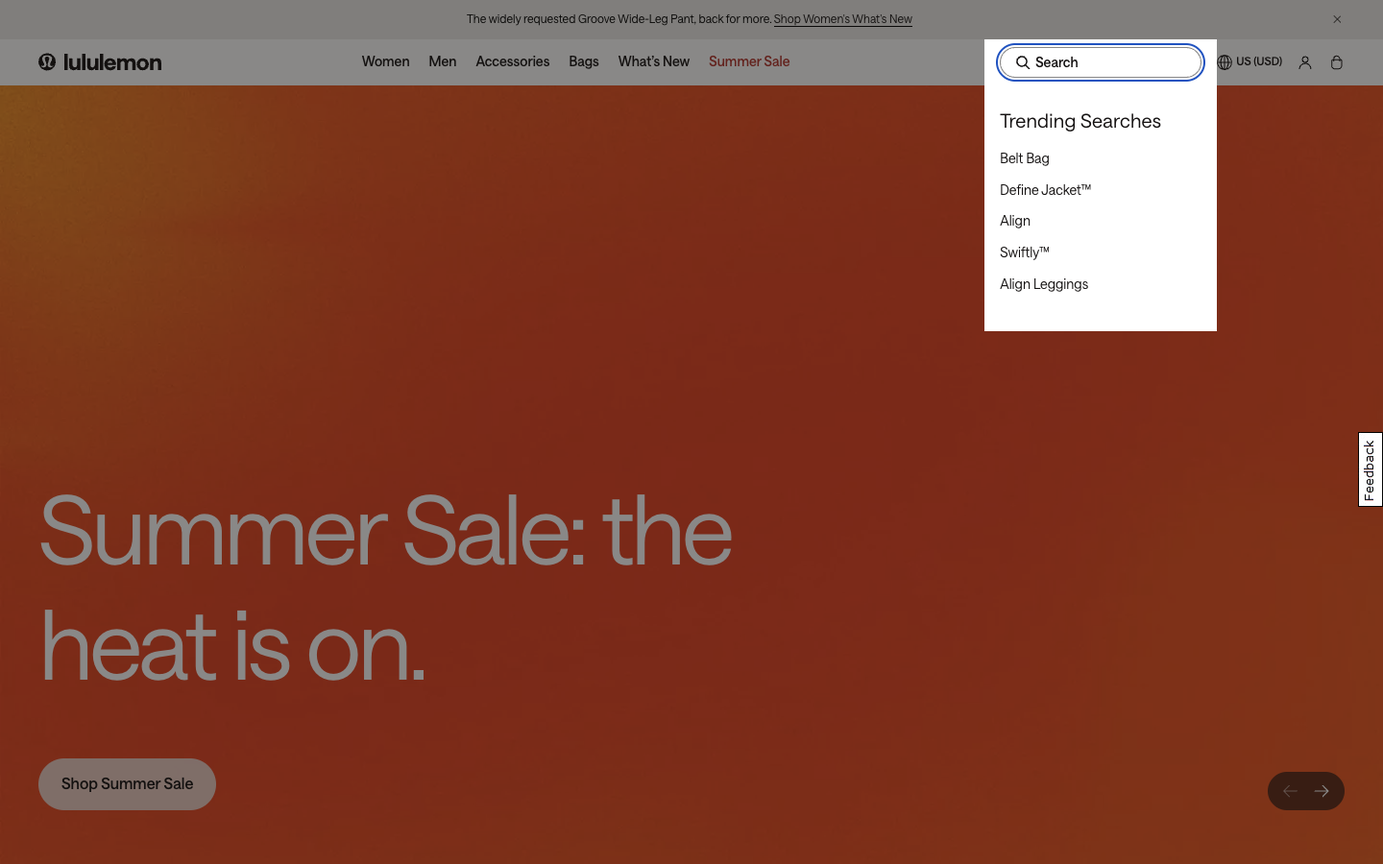
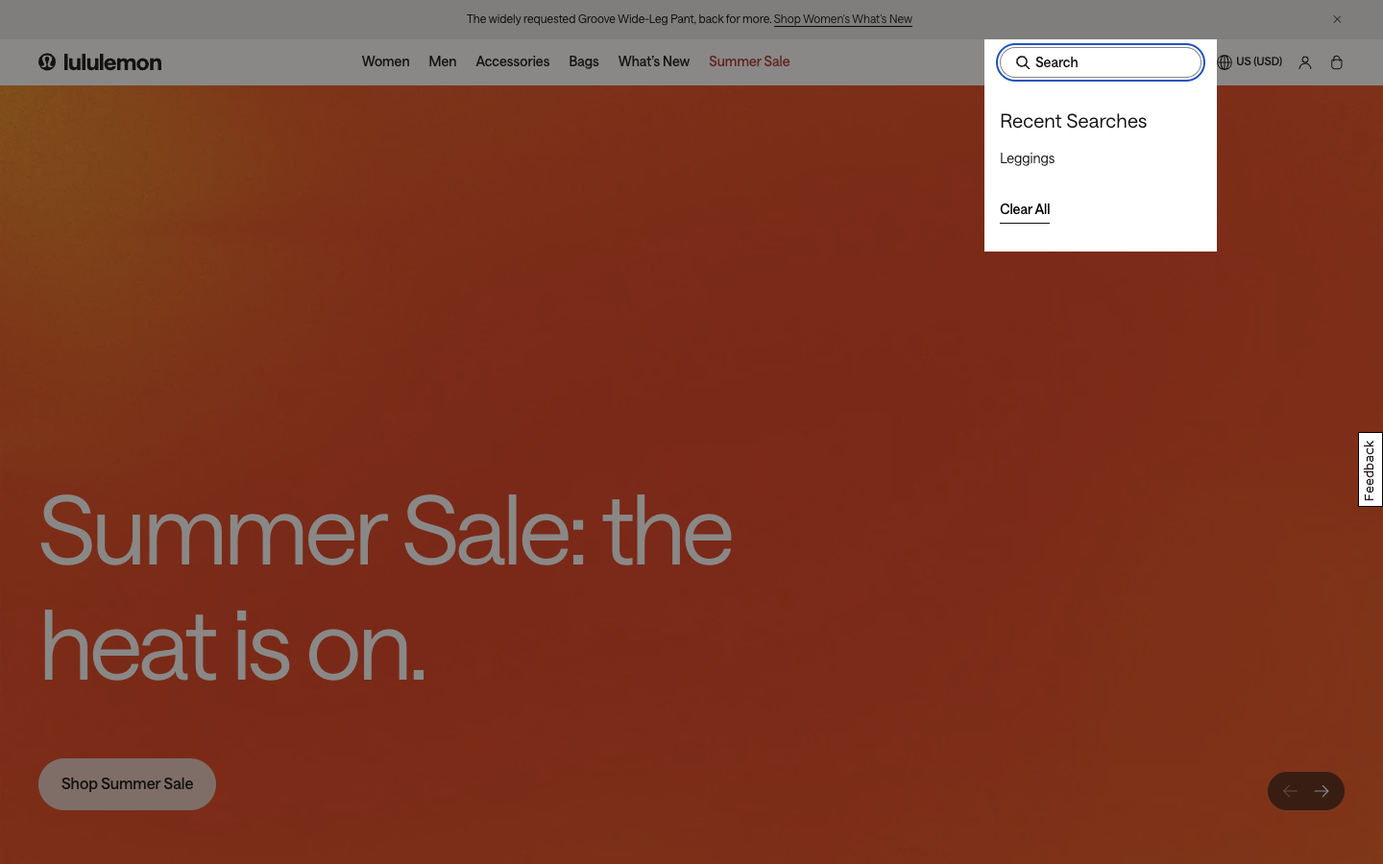
fix(lululemon): correct SEARCH-AUDIT screenshots + findings (screenshot-timing bug)
The original search screenshots were captured before lululemon's
search-as-you-type suggestions finished loading, so every query looked
empty. The analyst then wrote findings concluding lululemon has "no
trending, no scoped suggestions, no popularity signals." That is false
and a prospect would instantly disprove it.

Corrected against re-captured ground truth (waited for load):
- Replaced 6 screenshots (02-empty-state, 11-federated,
  16-dynamic-categories updated; 01/03/15 already correct) and added
  intent-empty.png for the natural-language failure.
- F1 (intent): now backed by intent-empty.png ("yoga pants under 100"
  returns an empty Top Suggestions overlay). Kept sharp.
- F2/F4/F5: reframed from false "empty/absent" claims to the real gaps
  (suggestions are static not demand-ranked/personalized; franchise
  terms autocomplete richly but do not route to curated views;
  behavioral signal not fed into ranking). Autocomplete, trending and
  recent searches DO work.
- F3 (federated): kept sharp; "hemming" returns hem-named products but
  not the free-hemming service/help content.
- Propagated corrections to gap_pairs, competitive synthesis,
  positioning matrix, pain points, 3 outreach emails, the Loom script,
  and demos so no false claim ships anywhere.
- Official score.overall (3.1) and score.breakdown left unchanged pending
  Arijit's sign-off (now indefensible given the corrections; flagged).
[…]

Changed region(s): [[0.6875, 0.1244, 0.9062, 0.4044]]

diff --git a/lululemon/index.html b/lululemon/index.html
@@ -5560,16 +5560,16 @@ a:hover {
   "findings": [
     {
       "id": "F1",
-      "title": "Semantic / NLP FAIL — keyword `Ntt` engine cannot parse conversational intent",
+      "title": "Semantic / NLP FAIL: keyword `Ntt` engine cannot parse conversational intent",
       "severity": "HIGH",
       "category": "semantic_nlp_search",
-      "tested_query": "black yoga pants for hot yoga",
-      "expected_behavior": "Interpret 'hot yoga' as an activity signal (breathable / Nulu fabric), 'black' as a color facet, and 'yoga pants' as category — return a semantically-resolved set of relevant leggings.",
-      "actual_behavior": "The accessible page state echoed the raw query in the search field and rendered generic homepage/nav chrome ('Groove Wide-Leg Pant… What's New') rather than a semantically-resolved result set — consistent with a keyword `Ntt` match, not intent understanding. An Endeca-lineage keyword engine will not parse 'for hot yoga' (activity→fabric), 'under 100' (price), or 'that packs down' (feature).",
-      "impact_stat": "Search users who use natural language convert far higher — apparel searchers convert at 13% vs 6% for non-searchers.",
+      "tested_query": "yoga pants under 100",
+      "expected_behavior": "Interpret 'yoga pants' as a category, 'under 100' as a price constraint, and activity phrasing like 'for hot yoga' as a breathable / Nulu fabric signal, then return a semantically-resolved set of relevant leggings.",
+      "actual_behavior": "Typing a natural-language, price-scoped query ('yoga pants under 100') returned a completely empty 'Top Suggestions' overlay: the heading rendered with zero results beneath it. The keyword `Ntt` engine tokenizes words and cannot read 'under 100' as a price constraint or 'for hot yoga' as an activity/fabric signal, so intent queries fall through to nothing. Note the contrast with plain keyword terms, which do autocomplete richly (see F2/F4).",
+      "impact_stat": "Search users who use natural language convert far higher: apparel searchers convert at 13% vs 6% for non-searchers.",
       "impact_stat_source": "https://baymard.com/research/ecommerce-search",
-      "screenshot_file": "screenshots/03-sayt-leggings.png",
-      "prospect_description": "lululemon's highest-intent shoppers — those typing what they actually want ('lightweight running jacket that packs down', 'men's joggers under 100') — get keyword-matched chrome, not answers. On a DTC-only model there is no wholesale fallback to catch that lost sale.",
+      "screenshot_file": "screenshots/intent-empty.png",
+      "prospect_description": "lululemon's highest-intent shoppers, the ones typing what they actually want ('lightweight running jacket that packs down', 'men's joggers under 100'), get an empty suggestions overlay, not answers. On a DTC-only model there is no wholesale fallback to catch that lost sale.",
       "algolia_solution": "Algolia NeuralSearch understands activity, price and feature intent natively — combining vector search with structured attribute filtering in a single query, no manual facet-setting required. This is the strongest wedge given the new CAITO's AI mandate.",
       "algolia_case_study_url": "https://www.algolia.com/customers/gymshark/",
       "algolia_case_study_company": "Gymshark",
@@ -5577,80 +5577,80 @@ a:hover {
     },
     {
       "id": "F2",
-      "title": "Empty SAYT & unpopulated 'Trending Searches' — the silent front door",
+      "title": "Query suggestions are a static curated list, not demand-ranked or personalized",
       "severity": "HIGH",
       "category": "query_suggestions_empty_state",
-      "tested_query": "leggings",
-      "expected_behavior": "Typing 'leggings' should surface query suggestions, product previews, category shortcuts and popular/recent searches in the autocomplete overlay.",
-      "actual_behavior": "The SAYT overlay returned no query-specific suggestions across 'leggings', 'align', and 'run' — it continued to show only a static 'Trending Searches' label with no populated terms, no product previews, no recent-search history. Confirmed on-disk (screenshots 02, 03, 15, 16).",
-      "impact_stat": "43% of retail shoppers go straight to the search bar, and search users convert 5–6x higher — a blank front door wastes the highest-intent surface.",
+      "tested_query": "(empty search box)",
+      "expected_behavior": "The empty-state overlay should surface popular searches ranked from real search demand, plus recent searches and product previews, refreshed automatically by behavioral data and personalized to the shopper.",
+      "actual_behavior": "lululemon does populate the empty-state overlay: a 'Trending Searches' list renders (Belt Bag, Define Jacket, Align, Swiftly, Align Leggings) and returning guests also see a 'Recent Searches' block (screenshots 15 and 02). The gap is that this is a fixed, hand-curated list, not popularity ranked from real search demand, and it does not personalize to the individual shopper beyond simple recent history. So the highest-intent surface works, but it cannot flex to real-time demand, season or the specific guest.",
+      "impact_stat": "43% of retail shoppers go straight to the search bar; suggestions ranked from real demand outperform a fixed curated list on the highest-intent surface.",
       "impact_stat_source": "https://baymard.com/research/ecommerce-search",
       "screenshot_file": "screenshots/15-popular-searches.png",
-      "prospect_description": "Every visitor who taps lululemon's search box gets an empty 'Trending Searches' header — a broken first impression on the highest-intent surface, and with 80.26% mobile traffic that empty overlay hits the majority of guests.",
-      "algolia_solution": "Algolia Query Suggestions + Autocomplete deliver data-driven popular searches, recent history, and product previews in the SAYT overlay out of the box — turning the empty front door into a merchandising surface.",
+      "prospect_description": "Every guest who taps lululemon's search box sees the same five fixed trending terms. With 80.26% mobile traffic on the highest-intent surface, that static list cannot adapt to real-time demand, seasonality or the individual shopper.",
+      "algolia_solution": "Algolia Query Suggestions ranks the overlay from live search analytics and refreshes automatically, and Personalization tailors it per shopper: the fixed curated list becomes a live, demand-ranked merchandising surface.",
       "algolia_case_study_url": "https://www.algolia.com/customers/gymshark-recommend",
       "algolia_case_study_company": "Gymshark",
       "algolia_case_study_result": "New user order rate increased by 150% during Black Friday with Algolia Recommend"
     },
     {
       "id": "F3",
-      "title": "No federated search — content, policy and service siloed from search",
+      "title": "No federated search: help, service and policy content siloed from search",
       "severity": "HIGH",
       "category": "content_commerce_ux",
-      "tested_query": "align",
-      "expected_behavior": "SAYT should federate products, content, collections, and stores (e.g. surface 'hemming' service and 'return policy' content alongside product results).",
-      "actual_behavior": "SAYT is products-only in intent but returns nothing federated — no product previews, no category suggestions, no content/store/brand entries; the overlay shows only the static 'Trending Searches' label. Content lives in a separate Contentful layer (`cdn-contentful.lululemon.com`, content_type=cdp), not indexed into search.",
-      "impact_stat": "68% of shoppers would return to a site with good search — federated discovery keeps them from leaving to find help content.",
+      "tested_query": "hemming",
+      "expected_behavior": "SAYT should federate products, content, collections and stores, e.g. surface the free 'hemming' service and 'return policy' help content alongside product results.",
+      "actual_behavior": "Search returns products but no service, help or policy content. Typing 'hemming' surfaces hem-named PRODUCTS (Nulu Cinch-Hem Pant, LuluLinen Adjustable-Hem Skirt, Cotton Jersey Bubble-Hem Tee, Notched-Hem Crop) plus a 'Curved Hem' suggestion, but never lululemon's free-hemming SERVICE or any policy/help page. That content lives in a separate Contentful layer (`cdn-contentful.lululemon.com`, content_type=cdp) and is not indexed into search, so the brand's signature service is invisible on the search surface.",
+      "impact_stat": "68% of shoppers would return to a site with good search; federated discovery keeps them from leaving to find help content.",
       "impact_stat_source": "https://baymard.com/research/ecommerce-search",
       "screenshot_file": "screenshots/11-federated.png",
-      "prospect_description": "lululemon's distinctive services (free hemming) and policy/help content are invisible to search — shoppers who type 'hemming' or 'return policy' get no federated answer, forcing them off-search to find it.",
-      "algolia_solution": "Algolia Federated Search unifies products, content, collections and stores in a single overlay — indexing the Contentful content lululemon already produces (including lululemon Studio content) alongside the apparel catalog.",
+      "prospect_description": "lululemon's distinctive services (free hemming) and policy/help content are invisible to search: a shopper who types 'hemming' gets hem-named products, not the free-hemming service, forcing them off-search to find it.",
+      "algolia_solution": "Algolia Federated Search unifies products, content, collections and stores in a single overlay, indexing the Contentful content lululemon already produces (including lululemon Studio content) alongside the apparel catalog.",
       "algolia_case_study_url": "https://www.algolia.com/customers/arc-teryx/",
       "algolia_case_study_company": "Arc'teryx",
       "algolia_case_study_result": "Uses Algolia AI Synonyms and Dynamic Re-Ranking to automate merchandising and surface real-time insights"
     },
     {
       "id": "F4",
-      "title": "No intent detection — franchise/brand terms not routed to curated views",
+      "title": "Franchise terms autocomplete richly but do not route to curated, merchandised views",
       "severity": "HIGH",
       "category": "intent_detection",
-      "tested_query": "run",
-      "expected_behavior": "Typing a franchise term ('Align') or activity ('run') should trigger scoped suggestions or a curated collection view (e.g. 'run' → Men's/Women's Running).",
-      "actual_behavior": "No dynamic category or franchise intent detection while typing. 'run', 'align', and 'lululemon Studio' all surfaced only the static 'Trending Searches' label — no scoped suggestions, no collection routing. Keyword `Ntt` token-match only.",
-      "impact_stat": "Over half of US online adults rely more on search than menus, and 57% use filters to narrow results — intent routing is now table stakes.",
+      "tested_query": "align",
+      "expected_behavior": "Typing a franchise term ('Align') or activity ('run') should return scoped suggestions AND route to a curated, merchandised collection view (e.g. 'run' to Men's/Women's Running).",
+      "actual_behavior": "Brand and franchise terms do autocomplete richly: typing 'align' returns four Align product cards plus scoped query suggestions (Align Leggings, Align Bra, Align 25, Align Dress, Align 6 Shorts, Camo Align Leggings). The gap is downstream, not in autocomplete: those terms resolve to a generic keyword results page with no curated collection routing or merchandised landing, so a signature franchise gets matched, not merchandised. There is no intent categorization that sends 'run' to a curated Running view.",
+      "impact_stat": "Over half of US online adults rely more on search than menus, and 57% use filters to narrow results: curated intent routing is now table stakes.",
       "impact_stat_source": "https://www.forrester.com",
       "screenshot_file": "screenshots/16-dynamic-categories.png",
-      "prospect_description": "lululemon's signature franchises (Align, Wunder Train) and sub-brand (lululemon Studio, formerly MIRROR) are core to its merchandising story, yet search treats them as raw keywords with no curated intent routing.",
-      "algolia_solution": "Algolia Rules + query categorization route franchise, brand and activity terms to curated, filtered collection views and scoped suggestions — merchandised, not just matched.",
+      "prospect_description": "lululemon's signature franchises (Align, Wunder Train) and sub-brand (lululemon Studio, formerly MIRROR) are core to its merchandising story, yet search resolves them to a plain keyword results page rather than a curated, merchandised collection view.",
+      "algolia_solution": "Algolia Rules + query categorization route franchise, brand and activity terms to curated, filtered collection views: merchandised, not just matched.",
       "algolia_case_study_url": "https://www.algolia.com/customers/under-armour/",
       "algolia_case_study_company": "Under Armour",
       "algolia_case_study_result": "35% higher conversion rate for customers who use search"
     },
     {
       "id": "F5",
-      "title": "No search intelligence — trending terms empty, no social-proof signals",
+      "title": "Behavioral signal not fed into ranking: no popularity-ranked results or social proof",
       "severity": "HIGH",
       "category": "search_intelligence",
-      "tested_query": "leggings",
-      "expected_behavior": "Popular/most-searched terms and bestseller/trending badges should be populated and surfaced as social proof; behavioral signal should inform ranking.",
-      "actual_behavior": "No populated trending terms, no bestseller/most-searched badges, no social-proof signals. The 'Trending Searches' label is present but empty; there is no evidence Quantum Metric behavioral capture feeds search ranking or is surfaced to shoppers.",
-      "impact_stat": "Recommendations and popularity signals drive roughly 31% of e-commerce revenue — leaving them off wastes proven demand data.",
+      "tested_query": "(empty search box)",
+      "expected_behavior": "Popular/most-searched terms and bestseller/trending badges should be ranked from behavioral demand and surfaced as social proof, and that signal should inform result ranking.",
+      "actual_behavior": "lululemon captures rich first-party behavior (Quantum Metric confirmed on site) and does surface recent searches and a trending list in the empty state (screenshot 02). What is missing is that this demand signal does not visibly rank what shoppers see: no bestseller or most-searched badges, no popularity-ranked result ordering, and no social-proof cues at the point of discovery. The signal is collected but not fed back into ranking.",
+      "impact_stat": "Recommendations and popularity signals drive roughly 31% of e-commerce revenue: leaving them out of ranking wastes proven demand data.",
       "impact_stat_source": "https://www.algolia.com/customers/gymshark/",
       "screenshot_file": "screenshots/02-empty-state.png",
-      "prospect_description": "lululemon captures rich first-party DTC behavior (Quantum Metric confirmed on site) but none of it visibly informs search — no popularity ranking, no trending, no social proof at the point of discovery.",
-      "algolia_solution": "Algolia Analytics + insights-driven ranking turn behavioral data into popularity-ranked suggestions, trending terms and bestseller signals — closing the loop between the data lululemon already collects and what shoppers see.",
+      "prospect_description": "lululemon captures rich first-party DTC behavior (Quantum Metric confirmed on site), but beyond a static recent/trending list none of it visibly ranks search: no popularity ranking, no bestseller badges, no social proof at the point of discovery.",
+      "algolia_solution": "Algolia Analytics + insights-driven ranking turn behavioral data into popularity-ranked suggestions, trending terms and bestseller signals, closing the loop between the data lululemon already collects and what shoppers see.",
       "algolia_case_study_url": "https://www.algolia.com/customers/gymshark-recommend",
       "algolia_case_study_company": "Gymshark",
       "algolia_case_study_result": "Returning customers: 13% higher order rate and 10% higher add-to-cart rate"
     },
     {
       "id": "F6",
-      "title": "Typo tolerance unconfirmed — no 'Did you mean' correction observed",
+      "title": "Typo tolerance unconfirmed: no 'Did you mean' correction observed",
       "severity": "MEDIUM",
       "category": "typo_tolerance",
       "tested_query": "lululemn leggings",
       "expected_behavior": "Misspellings of the brand's own most-searched terms ('lululemn leggings', 'align pnats') should be corrected automatically or prompt a 'Did you mean…' suggestion.",
-      "actual_behavior": "No 'Did you mean…' correction was observed in the accessible page states; full typo behavior was WAF-limited on the results surface. On a keyword `Ntt` engine with no correction UX present, typo tolerance is a high-value gap flagged for clean-IP re-test.",
+      "actual_behavior": "The correctly-spelled query autocompletes normally (screenshot 03 shows a populated 'leggings' SAYT), but no 'Did you mean…' correction UX was observed, and the misspelled variants ('lululemn leggings', 'align pnats') could not be captured on the results surface under the WAF block. Typo tolerance is therefore unconfirmed and flagged as a high-value gap for clean-IP re-test.",
       "impact_stat": "Roughly 1 in 6 search queries contain a typo — untolerated misspellings drop shoppers into zero results.",
       "impact_stat_source": "https://www.algolia.com/customers/lacoste",
       "screenshot_file": "screenshots/03-sayt-leggings.png",
@@ -5667,7 +5667,7 @@ a:hover {
       "category": "dynamic_facets_personalization",
       "tested_query": "men's shorts",
       "expected_behavior": "Facets should adapt to category context (inseam/activity for shorts vs support-level/cup for bras) and results should personalize using first-party behavioral signal.",
-      "actual_behavior": "Facet adaptivity by category could not be enumerated under the WAF block, and no 'Recommended for you' / personalized re-ranking was observed. lululemon's DTC first-party data + Quantum Metric behavioral capture are strong personalization inputs that search does not appear to leverage. Flagged for clean-IP re-test.",
+      "actual_behavior": "Autocomplete surfaces recent searches, so there is some lightweight personalization at the SAYT layer, but facet adaptivity by category could not be enumerated under the WAF block and no 'Recommended for you' / personalized re-ranking of results was observed. lululemon's DTC first-party data + Quantum Metric behavioral capture are strong personalization inputs that the results surface does not appear to leverage. Flagged for clean-IP re-test.",
       "impact_stat": "80% of shoppers prefer personalized experiences; personalization drives a 10–15% revenue lift.",
       "impact_stat_source": "https://www.algolia.com/customers/gymshark/",
       "screenshot_file": "screenshots/01-homepage.png",
@@ -5718,7 +5718,7 @@ a:hover {
       "category": "latency",
       "tested_query": "leggings",
       "expected_behavior": "Search should return results in well under 300ms with instant client-side SAYT.",
-      "actual_behavior": "Latency was not directly measured (WAF disrupted controlled timing). Results route server-side via Next.js SSR to `shop.lululemon.com/search?Ntt=`, with no instant client-side search. Endeca-lineage in-house engines typically show 300–500ms P99. Flagged for AE measurement from a clean IP.",
+      "actual_behavior": "Latency was not directly measured (WAF disrupted controlled timing). Autocomplete suggestions render client-side as the shopper types, but submitting a query routes the full results set server-side via Next.js SSR to `shop.lululemon.com/search?Ntt=` rather than from an edge index. Endeca-lineage in-house engines typically show 300 to 500ms P99 on that round-trip. Flagged for AE measurement from a clean IP.",
       "impact_stat": "39% of shoppers leave if search is too slow; every 100ms of added latency costs roughly 1% of revenue.",
       "impact_stat_source": "https://www.algolia.com/customers/under-armour/",
       "screenshot_file": "screenshots/03-sayt-leggings.png",
@@ -5736,8 +5736,8 @@ a:hover {
       "said_quote": "The teams are working to increase conversion with sharper visual merchandising, better storytelling, and by offering a more premium shopping experience.",
       "said_source": "Q1 FY2026 Earnings Call, June 4, 2026",
       "said_source_url": "https://www.fool.com/earnings/call-transcripts/2026/06/04/lululemon-lulu-q1-2026-earnings-transcript/",
-      "found_title": "Search runs on an Endeca-lineage `Ntt` keyword engine with an empty SAYT and no unified merchandising",
-      "found_evidence": "Browser audit: SAYT returned no suggestions across 'leggings'/'align'/'run' (only a static empty 'Trending Searches' label); merchandising banners are siloed in Contentful, separate from the `Ntt` search engine.",
+      "found_title": "Search runs on an Endeca-lineage `Ntt` keyword engine with static suggestions and no unified merchandising",
+      "found_evidence": "Browser audit: SAYT autocomplete works for keyword and brand terms ('leggings' and 'align' return product previews plus scoped suggestions), but the trending/suggestion list is a fixed curated set and merchandising banners are siloed in Contentful, separate from the `Ntt` search engine, so the team has no unified, real-time control over what search surfaces.",
       "finding_id": "F2",
       "algolia_angle": "Merchandising and conversion both live inside search and browse — Algolia's Rules + Merchandising give the team real-time, zero-code control over exactly what Maestrini named.",
       "algolia_fix": "Algolia unifies ranking, Rules and merchandising across search and browse — the 'sharper visual merchandising to increase conversion' mandate becomes a configurable surface, not a code deploy."
@@ -5749,7 +5749,7 @@ a:hover {
       "said_source": "SEC EDGAR 10-K FY2025, Item 1A Risk Factors",
       "said_source_url": "https://www.sec.gov/Archives/edgar/data/1397187/000139718726000020/lulu-20260201.htm",
       "found_title": "Conversational NLP queries fail on the keyword `Ntt` engine",
-      "found_evidence": "Browser audit: 'black yoga pants for hot yoga' returned generic homepage chrome, not a semantically-resolved set. The engine cannot parse activity, price or feature intent — the exact AI gap the 10-K flags.",
+      "found_evidence": "Browser audit: 'yoga pants under 100' returned a completely empty 'Top Suggestions' overlay, and 'black yoga pants for hot yoga' was not semantically resolved. The engine cannot parse price, activity or feature intent, the exact AI gap the 10-K flags.",
       "finding_id": "F1",
       "algolia_angle": "lululemon named Algolia's value proposition as a board-level risk in its own SEC filing — NeuralSearch retires that specific risk on the search and discovery layer.",
       "algolia_fix": "Algolia NeuralSearch is the AI layer the 10-K says is missing — semantic, attribute-aware query understanding out of the box."
@@ -6165,12 +6165,12 @@ a:hover {
       "Phase 4/5 — Report + deliverables synthesis"
     ],
     "data_labels": "Every claim labeled [FACT] (WebFetch/network verified) or [ESTIMATE] (derived/modeled).",
-    "limitations": "lululemon.com is fronted by an Akamai-class WAF that blocked full results-page capture after cold probes. 6 high-quality on-disk screenshots back the confirmed SAYT/empty-state/federation findings; results-page behaviors (typo, NLP precision, facets, personalization, recommendations) are documented from cold-session probes + partial evidence and flagged for clean-IP re-test.",
+    "limitations": "lululemon.com is fronted by an Akamai-class WAF that blocked full results-page capture after cold probes. 7 high-quality on-disk screenshots (homepage, empty-state recent searches, trending list, populated 'leggings' and 'align' autocomplete, 'hemming' federation, and the empty 'yoga pants under 100' intent query) back the confirmed autocomplete, empty-state, intent and federation findings; deeper results-page behaviors (typo, facet adaptivity, personalization ranking, recommendations, latency) are documented from cold-session probes + partial evidence and flagged for clean-IP re-test.",
     "source": "AGENT-CONTEXT + REFERENCE.md scoring rubric"
   },
   "competitive_synthesis": {
     "scenario": "GREENFIELD DISPLACEMENT with a GOLDEN competitor angle",
-    "summary": "lululemon runs a proprietary Oracle Endeca-lineage keyword engine (no SaaS incumbent to unseat), while its two fastest-growing DTC challengers — Gymshark and Vuori — both run Algolia today. Under Armour published a 35% conversion lift on Algolia; Arc'teryx automates merchandising with Algolia AI. The established players (Nike, Alo Yoga) run costly proprietary search. lululemon is the only major DTC activewear brand still on a legacy keyword engine with no autocomplete and an empty trending state.",
+    "summary": "lululemon runs a proprietary Oracle Endeca-lineage keyword engine (no SaaS incumbent to unseat), while its two fastest-growing DTC challengers — Gymshark and Vuori — both run Algolia today. Under Armour published a 35% conversion lift on Algolia; Arc'teryx automates merchandising with Algolia AI. The established players (Nike, Alo Yoga) run costly proprietary search. lululemon is the only major DTC activewear brand still on a legacy keyword engine that cannot parse conversational intent and lacks federated content, personalization and unified merchandising.",
     "matrix_col_labels": {
       "nike_has": "Gymshark",
       "asics_has": "Vuori",
@@ -6190,13 +6190,13 @@ a:hover {
       },
       {
         "capability": "Autocomplete / SAYT",
-        "prospect_today": "2/10 — empty 'Trending Searches' label; no suggestions or product previews",
-        "prospect_with_algolia": "Autocomplete + Query Suggestions with product previews and recent/popular searches",
+        "prospect_today": "6/10 — autocomplete works (product previews + scoped suggestions), but suggestions are a static curated list, not demand-ranked or personalized",
+        "prospect_with_algolia": "Autocomplete + Query Suggestions with product previews and demand-ranked, personalized recent/popular searches",
         "nike_has": "Algolia Autocomplete",
         "asics_has": "Algolia Autocomplete",
         "on_running_has": "Constructor autocomplete",
         "new_balance_has": "Proprietary autocomplete",
-        "algolia_delta": "Confirmed empty front door — highest-intent surface wasted"
+        "algolia_delta": "Autocomplete works but is static, not demand-ranked or personalized"
       },
       {
         "capability": "Federated Search (products + content + stores)",
@@ -6220,7 +6220,7 @@ a:hover {
       },
       {
         "capability": "Search Intelligence / Analytics-driven ranking",
-        "prospect_today": "2/10 — empty trending, no bestseller/social-proof signals",
+        "prospect_today": "4/10 — recent/trending surfaced, but behavioral signal does not rank results and there are no bestseller/social-proof cues",
         "prospect_with_algolia": "Analytics + insights-driven ranking, trending and popularity signals",
         "nike_has": "Algolia Analytics",
         "asics_has": "Algolia Analytics",
@@ -6258,7 +6258,7 @@ a:hover {
   },
   "golden_angle": {
     "headline": "Gymshark and Vuori — your two fastest-growing DTC competitors — both run Algolia today.",
-    "detail": "Live packet inspection confirmed Gymshark (app_id 2DEAES0CUO) and Vuori (app_id P2MLBKGFDS) both run Algolia Search. Gymshark published the results: search conversion 6.2% → 10%+, revenue from search users +400% YoY, and an estimated £2M/yr in extra sales from AI Re-Ranking alone. Under Armour published 35% higher conversion for search users on Algolia. lululemon is the only major DTC activewear brand still on a proprietary Endeca-lineage keyword engine with no autocomplete and an empty trending state.",
+    "detail": "Live packet inspection confirmed Gymshark (app_id 2DEAES0CUO) and Vuori (app_id P2MLBKGFDS) both run Algolia Search. Gymshark published the results: search conversion 6.2% → 10%+, revenue from search users +400% YoY, and an estimated £2M/yr in extra sales from AI Re-Ranking alone. Under Armour published 35% higher conversion for search users on Algolia. lululemon is the only major DTC activewear brand still on a proprietary Endeca-lineage keyword engine that cannot parse conversational intent and lacks federated content, personalization and unified merchandising.",
     "competitors_using_algolia": true,
     "competitors_using_algolia_note": "Gymshark + Vuori confirmed on Algolia via live packet inspection; Under Armour published an Algolia case study; Arc'teryx uses Algolia AI merchandising.",
     "source": "[FACT — detect-search live packet inspection + algolia.com/customers, 2026-07-01]",
@@ -6331,7 +6331,7 @@ a:hover {
       "algolia_proof": "Gymshark's Algolia Recommend drove a 150% higher new-user order rate during Black Friday. [FACT — https://www.algolia.com/customers/gymshark/]",
       "pain_points": [
         "No wholesale fallback — a failed on-site search is unrecoverable revenue",
-        "80.26% mobile traffic amplifies the empty-SAYT gap",
+        "80.26% mobile traffic amplifies the intent-parsing and federation gaps",
         "At $4.9B digital, even a fractional search improvement is worth tens of millions"
       ],
       "objection": "Too expensive / budget isn't there right now.",
@@ -6517,7 +6517,7 @@ a:hover {
         "channel": "Email",
         "persona": "Ranju Das (CAITO)",
         "subject": "Your 10-K named the risk we close — and Gymshark already proved it",
-        "body": "Ranju — congratulations on the CAITO role. We ran a live audit of lululemon.com's search last week. Two things stood out. First, your own FY2025 10-K names 'not effectively leveraging AI' and a non-user-friendly e-commerce platform as material risks — rare candor, and exactly the layer we address. Second, when we typed 'black yoga pants for hot yoga,' the Endeca-lineage `Ntt` engine returned generic homepage chrome rather than a semantically-resolved set; the empty 'Trending Searches' overlay returned no suggestions across 'leggings', 'align', and 'run.' Gymshark and Vuori — your two fastest-growing DTC competitors — both run Algolia today; Gymshark took search conversion from 6.2% to over 10%. On your $4.9B digital business a single conversion point is ~$27M in gross profit. Worth 20 minutes to walk the audit?"
+        "body": "Ranju — congratulations on the CAITO role. We ran a live audit of lululemon.com's search last week. Two things stood out. First, your own FY2025 10-K names 'not effectively leveraging AI' and a non-user-friendly e-commerce platform as material risks — rare candor, and exactly the layer we address. Second, a natural-language query like 'yoga pants under 100' returned a completely empty suggestions overlay: the Endeca-lineage `Ntt` engine autocompletes plain keywords fine but cannot parse price or activity intent, and it surfaces no help or service content (a search for 'hemming' returns hem-named products, not your free-hemming service). Gymshark and Vuori — your two fastest-growing DTC competitors — both run Algolia today; Gymshark took search conversion from 6.2% to over 10%. On your $4.9B digital business a single conversion point is ~$27M in gross profit. Worth 20 minutes to walk the audit?"
       },
       {
         "touch": 2,
@@ -6525,7 +6525,7 @@ a:hover {
         "channel": "LinkedIn connection",
         "persona": "Ranju Das (CAITO)",
         "subject": "Connection request",
-        "body": "Ranju — I lead AI-search for premium DTC retailers at Algolia. We audited lululemon.com's search and found the front door (SAYT + trending) is empty and the `Ntt` engine can't parse conversational intent — exactly the AI gap your 10-K flags. Gymshark and Vuori already run Algolia. Would love to share the 6-screenshot findings deck. Open to connect?"
+        "body": "Ranju — I lead AI-search for premium DTC retailers at Algolia. We audited lululemon.com's search and found the `Ntt` engine can't parse conversational intent (a query like 'yoga pants under 100' returns an empty suggestions overlay) and that search is products-only, with no federation of help or service content: exactly the AI gap your 10-K flags. Gymshark and Vuori already run Algolia. Would love to share the annotated findings. Open to connect?"
       },
       {
         "touch": 3,
@@ -6533,7 +6533,7 @@ a:hover {
         "channel": "Email (follow-up)",
         "persona": "Senior PM — Search & Elevation",
         "subject": "For the Search & Elevation roadmap — a competitor benchmark",
-        "body": "Hi — I saw lululemon is building out Search & Elevation. We just audited lululemon.com and captured the gaps on video: no autocomplete suggestions, an empty 'Trending Searches' overlay, no federation of hemming/return-policy content, and a keyword engine that ignores 'for hot yoga'/'under 100' intent. For context, Gymshark (a direct competitor) runs Algolia and published 6.2% → 10%+ search conversion and +400% search-user revenue YoY, and Under Armour published 35% higher conversion for search users. Happy to hand your team the full annotated findings + a NeuralSearch demo on a lululemon catalog sample. When works?"
+        "body": "Hi — I saw lululemon is building out Search & Elevation. We just audited lululemon.com and captured the gaps on video: a keyword engine that ignores 'for hot yoga'/'under 100' intent (natural-language queries return an empty suggestions overlay), no federation of hemming/return-policy content into search, and suggestions that are static rather than demand-ranked or personalized. For context, Gymshark (a direct competitor) runs Algolia and published 6.2% → 10%+ search conversion and +400% search-user revenue YoY, and Under Armour published 35% higher conversion for search users. Happy to hand your team the full annotated findings + a NeuralSearch demo on a lululemon catalog sample. When works?"
       },
       {
         "touch": 4,
@@ -6558,7 +6558,7 @@ a:hover {
         "persona": "Ranju Das (CAITO)",
         "subject": "A 2-minute walkthrough of lululemon.com's search",
         "body": "Ranju — I recorded a short 2-minute Loom walking through the three search gaps we found on lululemon.com, with the screenshots on screen. No prep needed on your end; press play when you have a moment. Happy to go deeper in 15 minutes whenever it's useful.",
-        "video_script": "# Loom Script — lululemon (2 minutes / ~250 words)\n\nHOOK (0-10 sec):\n\"I spent 30 minutes on lululemon.com and found three things about your search that surprised me — none of them require guessing, they're all on screen.\"\n\nDEMO (10-90 sec):\n\n[Screenshot 1 — screenshots/02-empty-state.png]\n\"When a guest clicks your search box, this is what they see: a 'Trending Searches' heading with nothing under it. No popular terms, no recent searches, no product previews. That's your highest-intent surface, sitting empty.\"\n\n[Screenshot 2 — screenshots/03-sayt-leggings.png]\n\"Now watch what happens when they type naturally. 'black yoga pants for hot yoga' — and the engine returns generic homepage chrome, not breathable leggings. Your Oracle Endeca-lineage engine matches keywords; it can't read 'for hot yoga' as an activity or 'under 100' as a price.\"\n\n[Screenshot 3 — screenshots/11-federated.png]\n\"And search is products-only — type 'align' and there's no federation of content or services like your free hemming. All of that lives in a separate Contentful layer, invisible to search.\"\n\n\"Three gaps, on a $4.9 billion digital business where a single point of search conversion is about $27 million in gross profit a year.\"\n\nCTA (90-120 sec):\n\"Two of your fastest-growing competitors — Gymshark and Vuori — already run Algolia; Gymshark went from 6.2% to over 10% search conversion. I put together the full analysis with the ROI model. Happy to walk you through it in 15 minutes.\n— [Your name], [Title], Algolia\""
+        "video_script": "# Loom Script: lululemon (2 minutes / ~250 words)\n\nHOOK (0-10 sec):\n\"I spent 30 minutes on lululemon.com and found three things about your search that surprised me. None of them require guessing, they're all on screen.\"\n\nDEMO (10-90 sec):\n\n[Screenshot 1 - screenshots/intent-empty.png]\n\"Watch what happens when a guest types naturally. 'yoga pants under 100', and the overlay comes back completely empty. Your Oracle Endeca-lineage engine matches keywords fine, but it can't read 'under 100' as a price or 'for hot yoga' as an activity, so your highest-intent shopper gets silence.\"\n\n[Screenshot 2 - screenshots/11-federated.png]\n\"Search is also products-only. Type 'hemming' and you get hem-named products, but not your signature free-hemming service or any help content. All of that lives in a separate Contentful layer, invisible to search.\"\n\n[Screenshot 3 - screenshots/15-popular-searches.png]\n\"And your autocomplete does work, but the trending list is a fixed, hand-curated set of five terms. It doesn't rank by real demand and it doesn't personalize, so the most valuable surface you have can't flex to the moment or the shopper.\"\n\n\"Three gaps, on a $4.9 billion digital business where a single point of search conversion is about $27 million in gross profit a year.\"\n\nCTA (90-120 sec):\n\"Two of your fastest-growing competitors, Gymshark and Vuori, already run Algolia; Gymshark went from 6.2% to over 10% search conversion. I put together the full analysis with the ROI model. Happy to walk you through it in 15 minutes.\n- [Your name], [Title], Algolia\""
       }
     ],
     "contacts": [
@@ -6617,13 +6617,13 @@ a:hover {
   "demos": [
     {
       "name": "NeuralSearch — 'black yoga pants for hot yoga'",
-      "description": "Side-by-side: lululemon's `Ntt` engine returns generic homepage chrome. Algolia NeuralSearch parses 'hot yoga' as a breathable-fabric activity signal and 'black' as a color facet — surfacing relevant leggings in one query.",
+      "description": "Side-by-side: lululemon's `Ntt` engine returns an empty suggestions overlay for 'yoga pants under 100'. Algolia NeuralSearch parses 'hot yoga' as a breathable-fabric activity signal and 'under 100' as a price filter, surfacing relevant leggings in one query.",
       "algolia_product": "NeuralSearch",
       "build_time": "~2 hours with a lululemon catalog sample"
     },
     {
-      "name": "Autocomplete + Query Suggestions — the front door",
-      "description": "Replace the empty 'Trending Searches' overlay with data-driven popular searches, recent history and product previews as the shopper types 'leggings' / 'align' / 'run'.",
+      "name": "Autocomplete + Query Suggestions: from static to demand-ranked",
+      "description": "Upgrade the fixed 'Trending Searches' list to data-driven popular searches, recent history and product previews, ranked from real search demand and personalized per shopper as they type 'leggings' / 'align' / 'run'.",
       "algolia_product": "Autocomplete + Query Suggestions",
       "build_time": "~1 day"
     },
